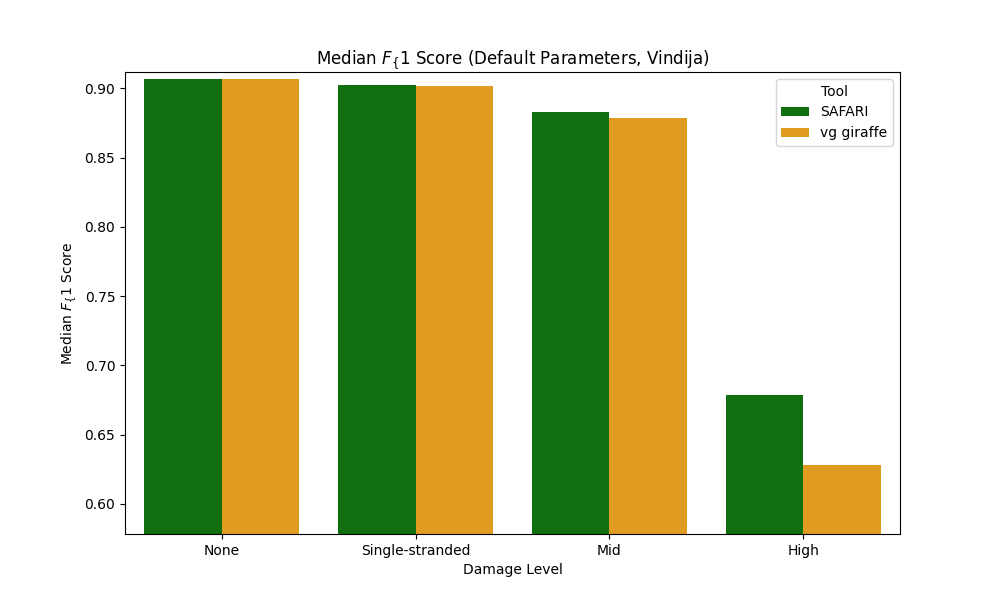
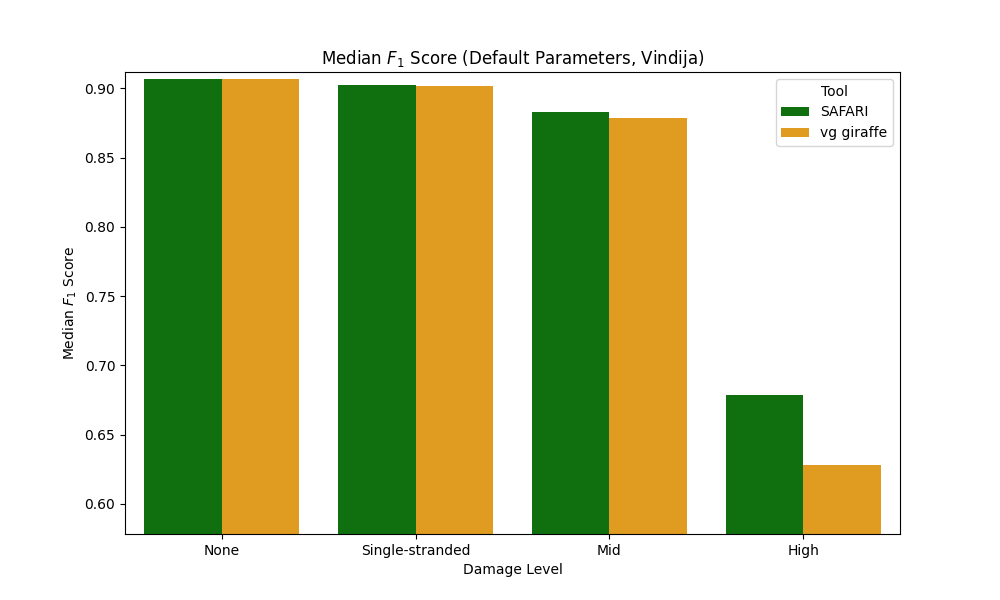
Update

Changed region(s): [[0.31, 0.09, 0.713, 0.12], [0.062, 0.39, 0.093, 0.6]]

diff --git a/linear_experiment/human_mito/stat_results/plot_F1_default_pangenome.py b/linear_experiment/human_mito/stat_results/plot_F1_default_pangenome.py
@@ -36,9 +36,9 @@ def main():
     # Create the barplot
     plt.figure(figsize=(10, 6))
     sns.barplot(data=median_f1_scores, x='damage_level', y='f1', hue='tool', palette=corrected_palette)
-    plt.title(r'Median $F_\{1}$ Score (Default Parameters, ' + sys.argv[3] + ")")
+    plt.title(r'Median $F_1$ Score (Default Parameters, ' + sys.argv[3] + ")")
     plt.xlabel('Damage Level')
-    plt.ylabel(r'Median $F_\{1}$ Score')
+    plt.ylabel(r'Median $F_1$ Score')
     plt.legend(title='Tool')
 
     # Set the y-axis limits
